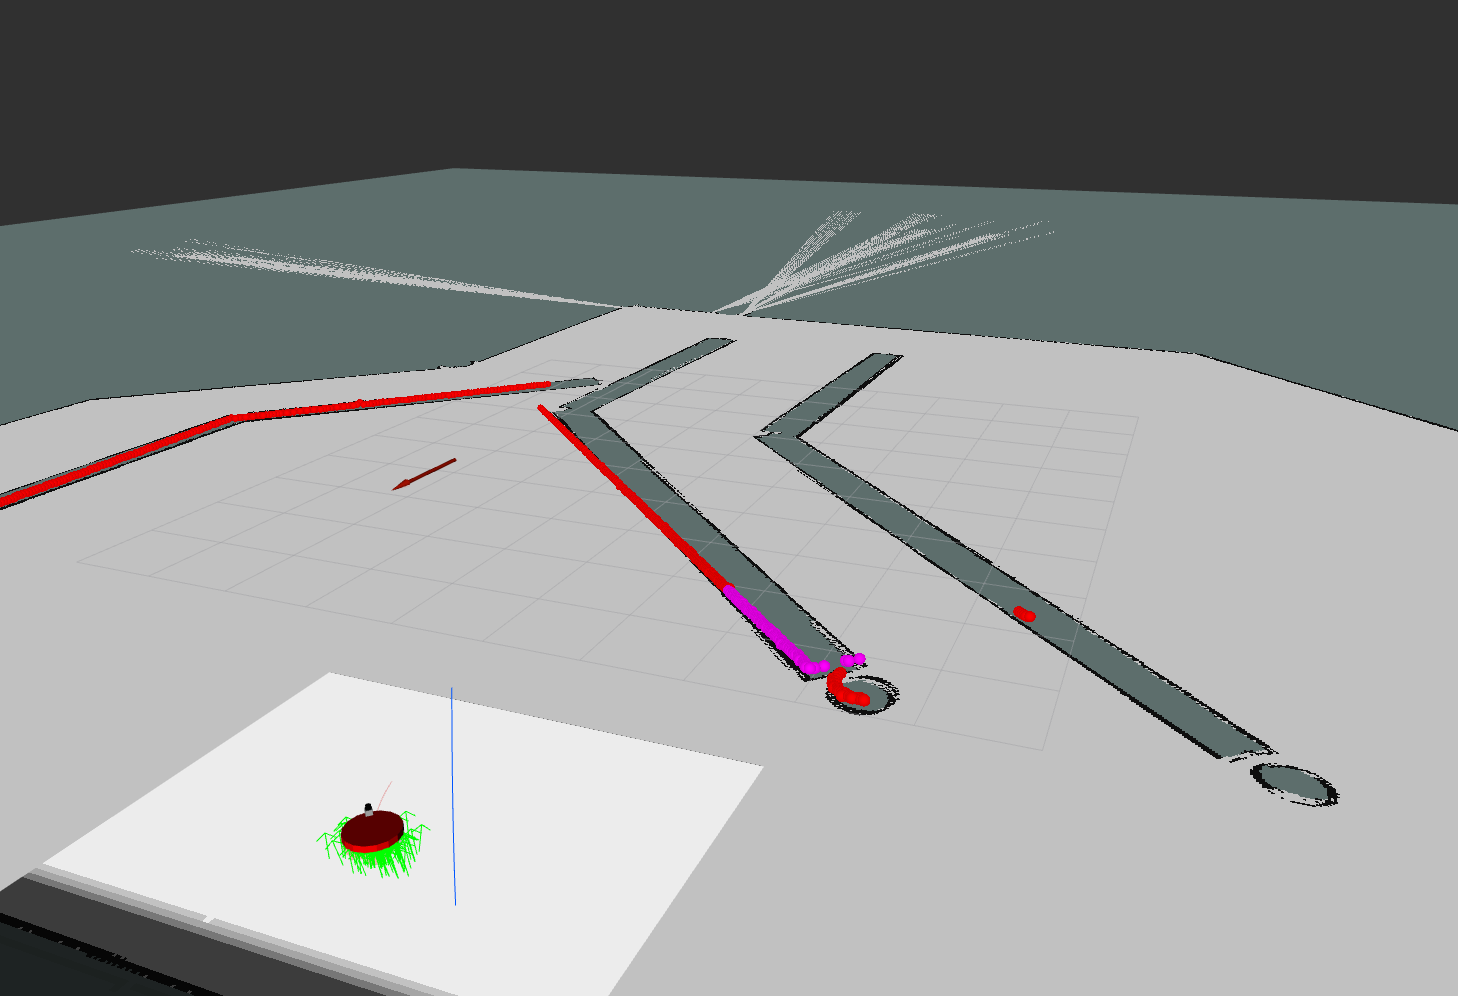
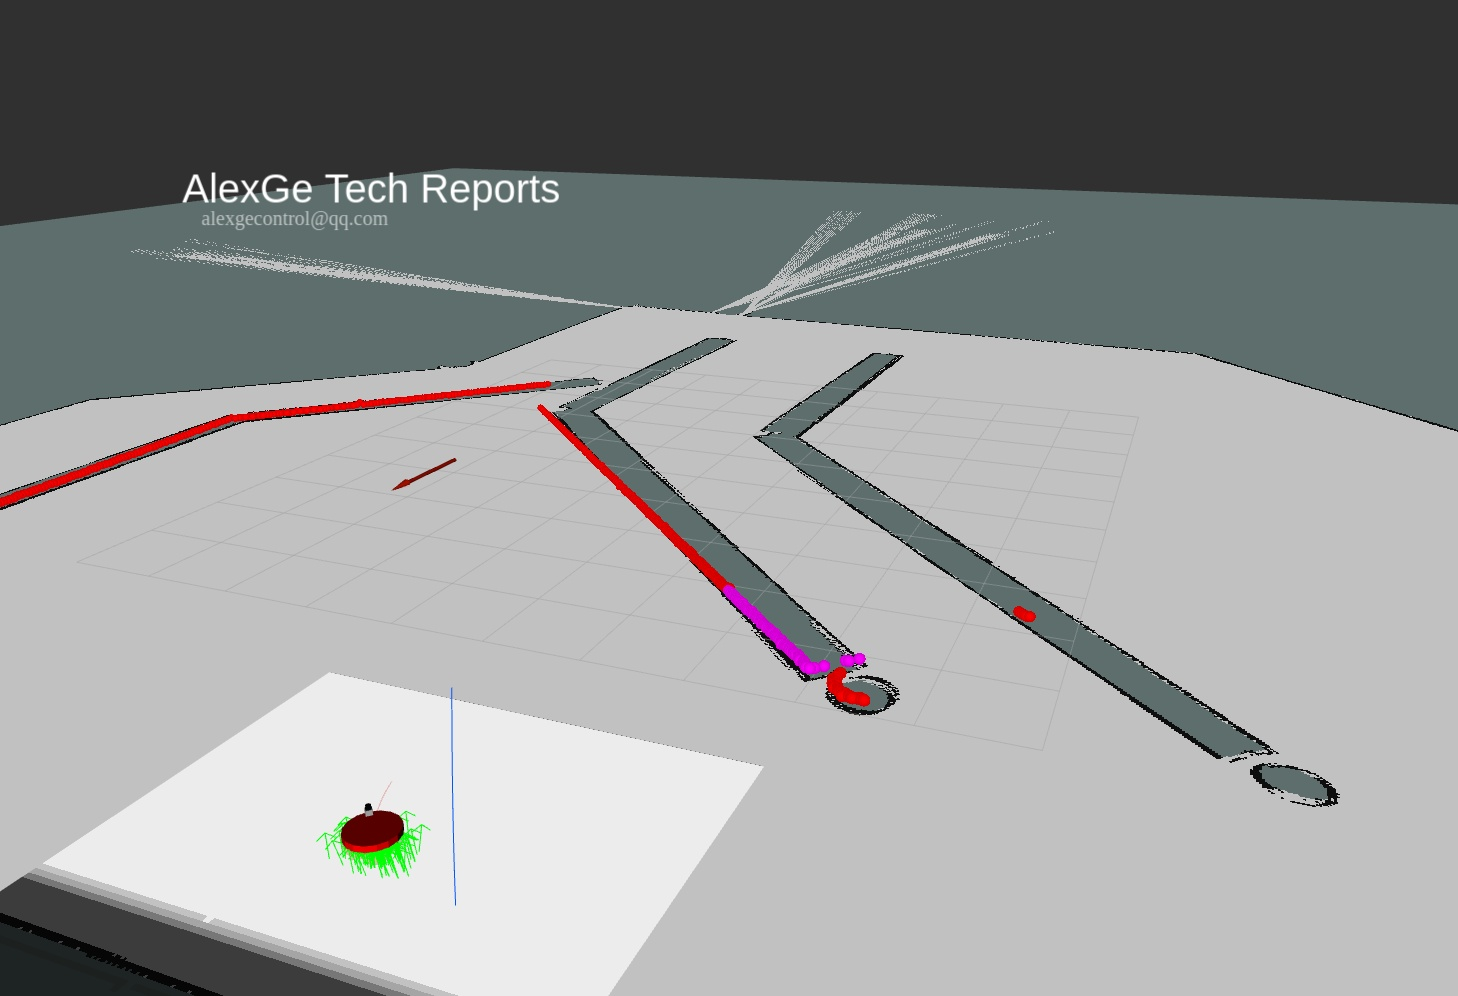
Add watermarked illustrations

diff --git a/README.md b/README.md
@@ -39,6 +39,14 @@ rosrun sweeping_robot navigation_goal
 
 ## Results
 
+Localization & Navigation on the way:
+
 <img src="doc/02-half-way.png" alt="Half Way to Destination" width="100%">
 
 <img src="doc/03-finally.png" alt="Finally" width="100%">
+
+<img src="doc/04-destination.png" alt="Destination" width="100%">
+
+Terminal status when destination is reached:
+
+<img src="doc/05-terminal-status.png" alt="Terminal Status" width="100%">
